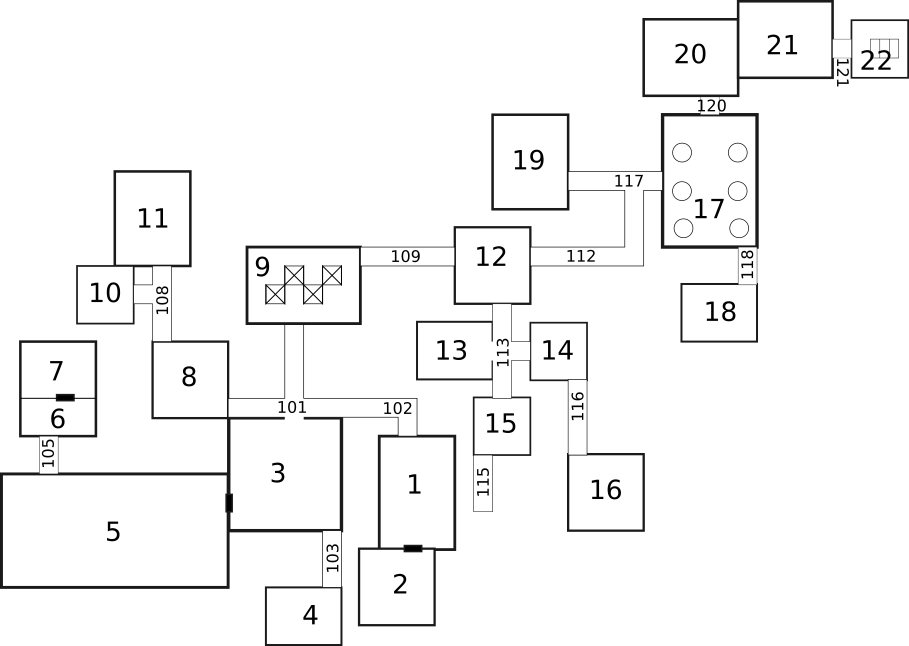
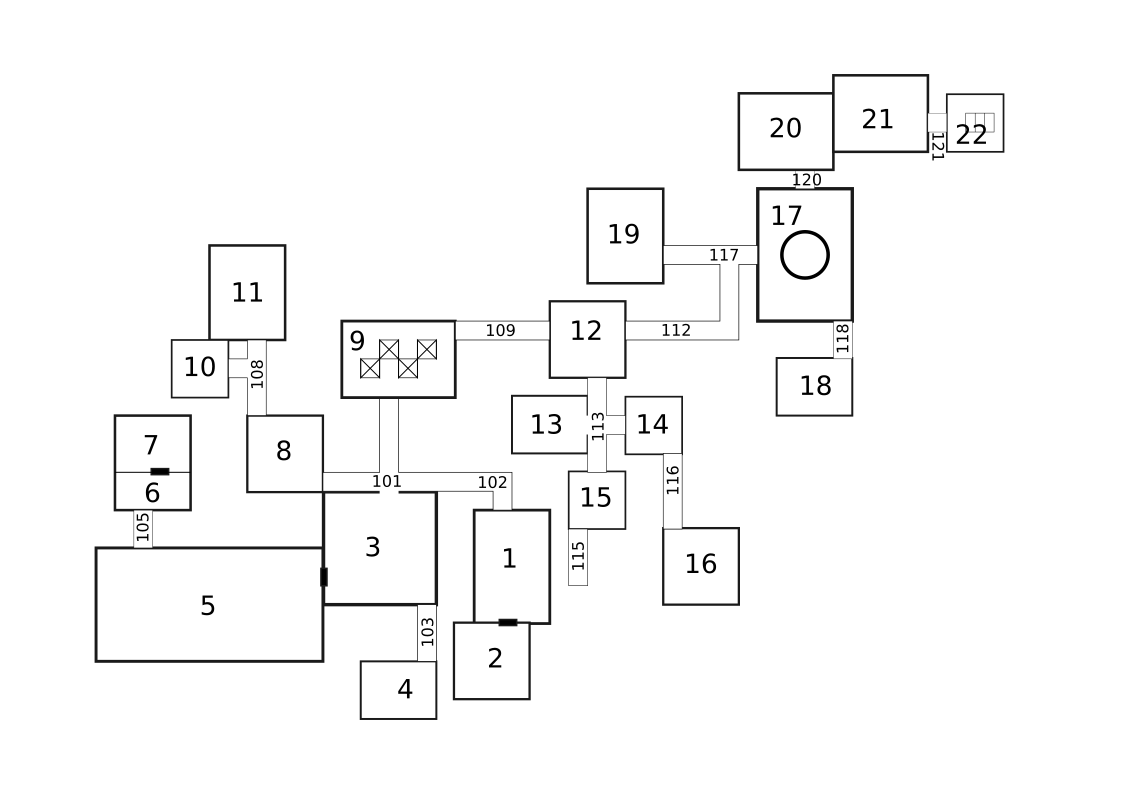
Locations are rewritten.

Changed region(s): [[0.0, 0.0, 1.0, 1.0], [0.5545, 0.1548, 0.6161, 0.1858]]

diff --git a/locations.h b/locations.h
@@ -20,7 +20,6 @@ struct locations {
     int go_west;
 };
 
-// rewritten locations: 1 - 16, 22
 
 struct locations rooms[36] = {
     {1,{4,6},"Entry hall","You entered between gray brick walls, old and torn,\nprotruding from the ground like the teeth of an ancient beast.\n\nIn the northern wall there is a passage leading to the corridor, in the southern wall there is a heavy door.\n\nThere are sounds of giggling and wild growling.", "These sounds are coming from the south.",0,0,0,0,/* a */0,/* c */102,0,2,0},
@@ -39,11 +38,11 @@ struct locations rooms[36] = {
     {14,{3,3},"Chamber of wandering souls","The room is empty.\n On the walls you see moving shadows in human shapes.\nThey walk silently along the surfaces of the walls.", "Do they know about our presence?",0,1,0,0,/* a */0,/* c */0,0,116,113},
     {15,{3,3},"Meat storage room","There are steel hooks hanging on the chains with dried blood on them.\nYou notice the smell of death in the air.", "There\'s a screech of metal in the distance.",0,0,0,0,/* a */0,/* c */113,0,115,0},
     {16,{4,4},"Ritual Chamber","You entered through the only door in this room.\nTorch holders stick out from the walls.\nOn the remains of the floor you can see symbols of ancient magic.", "Looks like there\'s nothing here.",0,0,0,0,/* a */0,/* c */116,0,0,0},
-    {17,{7,5},"Statue gallery","This room is illuminated by magic. \n There are six finely crafted statues in two ranks across the room; they \n appear to be elven warriors in chainmail with swords upraised toward you.", "6 living statues attacks",0,0,0,0,/* a */0,/* c */120,0,118,117},
-    {18,{4,3},"Sarcophagus","A large sarcophagus rests in the center of this room. \n A chill comes over you as the musty air of the room flows over you.", "You hear a moaning sound, faint and distant. \n It seems to be emanating from the sarcophagus.",0,0,0,0,/* a */0,/* c */118,0,0,0},
-    {19,{4,5},"Mystery room","Cobwebs hang thickly from the ceiling in the far left corner of this room, partially covering the \n doorway there.\n A trail of blood leads from the center \n of the room to the door on the right.", "Nothing here!",0,0,0,0,/* a */0,/* c */0,117,0,0},
-    {20,{5,4},"Midden","A faint odor of ancient foulness fills the air of this room. \n The top and part of the sides of the piles are covered in mushrooms, \n from the size of your hand up to the size of your head.",  "This room was used as a midden, an area for waste disposal.",0,0,0,0,/* a */0,/* c */0,21,120,0}, // traps!
-    {21,{5,4},"Dread altar","There is an altar against the left wall of this room and an unusual blue flame \n burns in a small brazier in the center.",  "Nothing here...",0,0,0,0,/* a */0,/* c */0,121,0,20},
+    {17,{7,5},"Well of voices","This room is a large hall with a stone well in the center.\nA soft singing comes from inside the well.", "When you look into the well, you see a surface of clean water.",0,0,0,0,/* a */3,/* c */120,0,118,117},
+    {18,{4,3},"Decaying room","The walls of this empty room are bent inwards, as if they wanted to crush anyone who dares to stay here.", "You hear a creaking sound coming from the walls, as if old bricks were slowly moving.",0,0,0,0,/* a */0,/* c */118,0,0,0},
+    {19,{4,5},"The chamber of eyes","The eyes carved in the walls seem to be watching you.\nYou even feel like they\'re moving.", "They are watching...",0,0,0,0,/* a */0,/* c */0,117,0,0},
+    {20,{5,4},"Cocoons","Human-sized cocoons hang from the burnt beams of the ceiling.\nThey vibrate and crackle, you feel like something is trying to get out of them.",  "It\'s better to leave this place",0,0,0,0,/* a */0,/* c */0,21,120,0}, // traps!
+    {21,{5,4},"Empty hall","Looks like there\'s nothing here.\nYou feel a gentle breeze of fresh air.",  "Nothing here...",0,0,0,0,/* a */0,/* c */0,121,0,20},
     {22,{2,3},"The Chamber of immortality","\t\t CONGRATULATIONS !\n\nYou entered a small, dark room.\nIt's empty here, except for the decorated plinth in the middle.\nOn the pedestal there is a glass vessel with opalescent contents.\nHere you have found the soul of a demon.\n\nBy breaking the vessel, you bring death to Agth.\n\nYour mission has been completed.",  "The nightmare is over.",0,0,0,0,/* a */0,/* c */0,0,0,121},
     /* corridors */
     {101,{10,1},"Corridor","This corridor crossing leads east, west and north, there are doors on the southern wall.", "Nothing to do here.",0,0,0,0,/* a */0,/* c */9,102,3,8},

diff --git a/resources.h b/resources.h
@@ -21,7 +21,7 @@ char side_panel[12][32] = {
 };
 
 
-char lvls[3][14][22] = {
+char lvls[4][14][22] = {
     {
         {'#','#','#','#','#','#','#','#','#','#','#','#','#','#','#','#','#','#','#','#','#','#'},
         {'#','.','.','.','.','.','.','.','.','.','.','.','.','.','.','.','.','.','.','.','.','#'},
@@ -69,7 +69,23 @@ char lvls[3][14][22] = {
         {'#','.','.','.','.','.','.','.','.','.','.','.','.','.','.','.','.','.','.','.','.','#'},
         {'#','.','.','.','.','.','.','.','.','.','.','.','.','.','.','.','.','.','.','.','.','#'},
         {'#','#','#','#','#','#','#','#','#','#','#','#','#','#','#','#','#','#','#','#','#','#'},
- }
+    },
+    {
+        {'#','#','#','#','#','#','#','#','#','#','#','#','#','#','#','#','#','#','#','#','#','#'},
+        {'#','.','.','.','.','.','.','.','.','.','.','.','.','.','.','.','.','.','.','.','.','#'},
+        {'#','.','.','.','.','.','.','.','.','.','.','.','.','.','.','.','.','.','.','.','.','#'},
+        {'#','.','.','.','.','.','.','.','.','.','.','.','.','.','.','.','.','.','.','.','.','#'},
+        {'#','.','.','.','.','.','.','.','#','#','#','#','.','.','.','.','.','.','.','.','.','#'},
+        {'#','.','.','.','.','.','.','#','~','~','~','~','#','.','.','.','.','.','.','.','.','#'},
+        {'#','.','.','.','.','.','.','#','~','~','~','~','#','.','.','.','.','.','.','.','.','#'},
+        {'#','.','.','.','.','.','.','#','~','~','~','~','#','.','.','.','.','.','.','.','.','#'},
+        {'#','.','.','.','.','.','.','.','#','#','#','#','.','.','.','.','.','.','.','.','.','#'},
+        {'#','.','.','.','.','.','.','.','.','.','.','.','.','.','.','.','.','.','.','.','.','#'},
+        {'#','.','.','.','.','.','.','.','.','.','.','.','.','.','.','.','.','.','.','.','.','#'},
+        {'#','.','.','.','.','.','.','.','.','.','.','.','.','.','.','.','.','.','.','.','.','#'},
+        {'#','.','.','.','.','.','.','.','.','.','.','.','.','.','.','.','.','.','.','.','.','#'},
+        {'#','#','#','#','#','#','#','#','#','#','#','#','#','#','#','#','#','#','#','#','#','#'},
+    }
 };
 
 /*PARTY - PLAYABLE CHARACTERS*/
